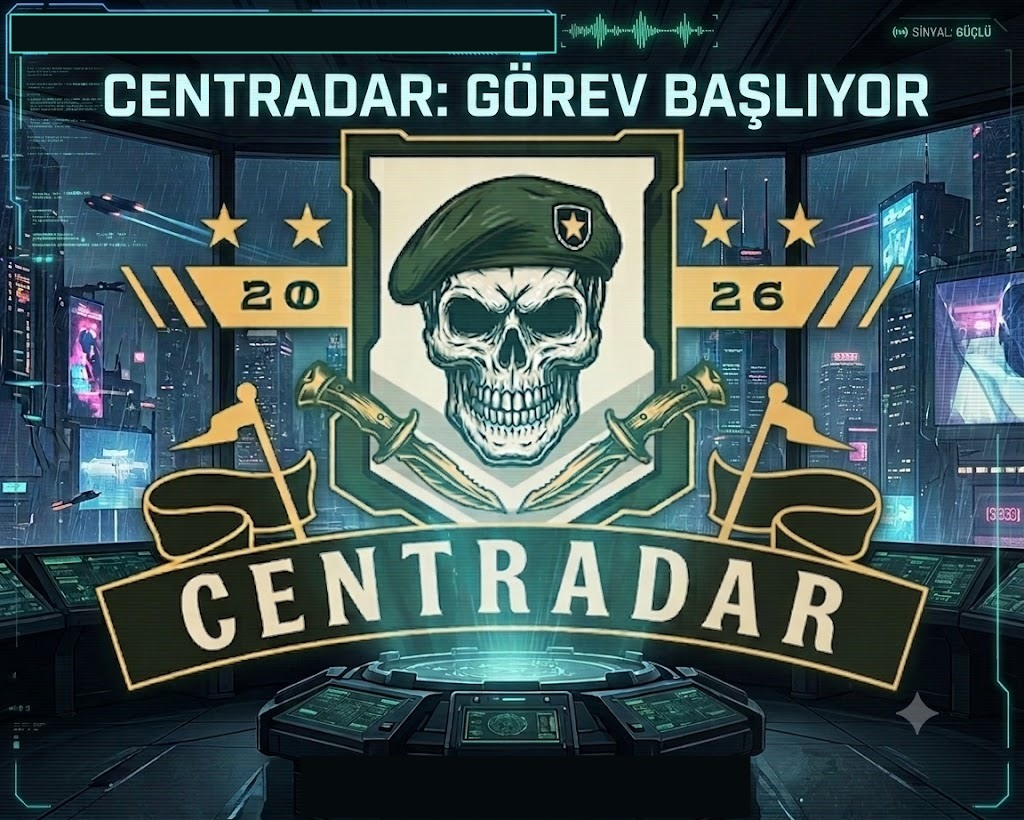
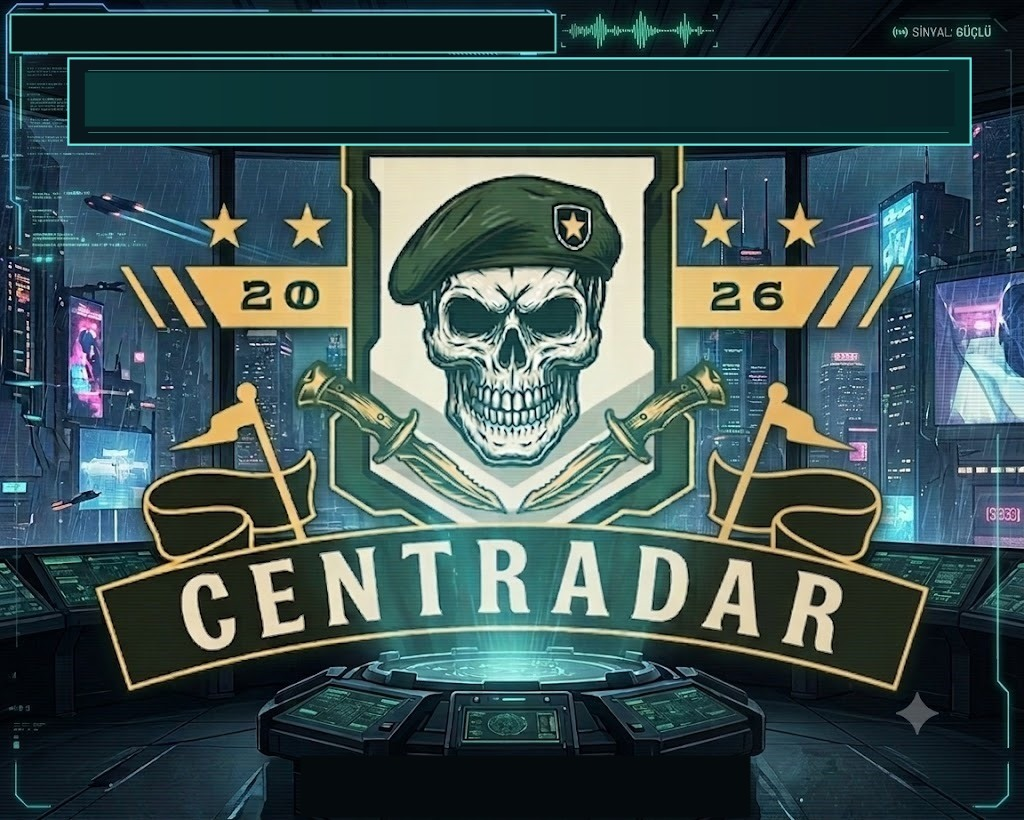
Translate mission start title

Changed region(s): [[0.0625, 0.061, 0.9688, 0.1829]]

diff --git a/index.html b/index.html
@@ -254,6 +254,7 @@ body.perf-lite .ticker-inner{animation-duration:60s}
 .welcome-bg{position:absolute;inset:0;background:linear-gradient(90deg,rgba(2,7,9,.12),rgba(2,7,9,.04) 42%,rgba(2,7,9,.28)),url('/assets/centradar-mission-live-bg.jpg') center/cover no-repeat;filter:saturate(1.08) contrast(1.05)}
 .welcome-scan{position:absolute;inset:0;background:repeating-linear-gradient(180deg,rgba(255,255,255,.035) 0 1px,transparent 1px 4px);opacity:.30;mix-blend-mode:screen;pointer-events:none}
 .welcome-live-hud{position:absolute;z-index:2;top:17px;left:18px;min-width:min(540px,70vw);font-family:var(--mono);font-size:13px;color:#bffdf7;letter-spacing:.7px;text-align:left;padding:8px 14px;text-shadow:0 0 12px rgba(0,245,255,.42)}
+.welcome-mission-title{position:absolute;z-index:2;top:74px;left:50%;transform:translateX(-50%);width:min(880px,86vw);font-family:var(--hud);font-size:clamp(30px,4.8vw,58px);line-height:1;letter-spacing:2.5px;color:#d6fffb;text-align:center;text-shadow:0 0 26px rgba(0,245,255,.50),0 3px 0 rgba(0,0,0,.72);text-transform:uppercase;pointer-events:none}
 .welcome-shell{position:relative;z-index:1;width:min(1120px,96vw);display:grid;grid-template-columns:360px;justify-content:end;align-items:center;padding-right:min(5vw,56px)}
 .welcome-brief{min-height:520px;border:1px solid rgba(115,255,235,.30);background:linear-gradient(180deg,rgba(6,18,22,.50),rgba(5,9,12,.64));box-shadow:0 18px 60px rgba(0,0,0,.58),inset 0 0 60px rgba(0,245,255,.05);padding:18px;display:flex;flex-direction:column;justify-content:space-between;overflow:hidden;position:relative}
 .welcome-brief:before{content:'';position:absolute;inset:10px;border:1px solid rgba(115,255,235,.18);pointer-events:none}
@@ -264,6 +265,9 @@ body.perf-lite .ticker-inner{animation-duration:60s}
 .welcome-portal{border:1px solid rgba(115,255,235,.38);background:linear-gradient(180deg,rgba(15,34,34,.88),rgba(6,11,12,.96));box-shadow:0 16px 54px rgba(0,0,0,.65),inset 0 0 40px rgba(0,245,255,.06);padding:18px;position:relative}
 .welcome-portal:before{content:'';position:absolute;inset:7px;border:1px solid rgba(115,255,235,.17);pointer-events:none}
 .welcome-portal-title{font-family:var(--hud);font-size:17px;line-height:1.2;letter-spacing:1px;color:#e7fffa;text-align:center;margin-bottom:14px}
+.welcome-lang-switch{display:flex;justify-content:center;gap:6px;margin:-4px 0 12px;position:relative;z-index:1}
+.welcome-lang-switch button{background:rgba(115,255,235,.08);border:1px solid rgba(115,255,235,.30);color:#bffdf7;font-family:var(--hud);font-size:9px;letter-spacing:1px;padding:6px 8px;cursor:pointer}
+.welcome-lang-switch button:hover{background:rgba(115,255,235,.16);border-color:rgba(115,255,235,.55);color:#fff}
 .welcome-stats{display:grid;grid-template-columns:1fr 1fr;gap:8px;margin:12px 0 14px}
 .welcome-stat{border:1px solid rgba(255,255,255,.08);background:rgba(0,0,0,.24);padding:9px;text-align:left}
 .welcome-stat b{display:block;font-family:var(--hud);font-size:10px;color:var(--gold);letter-spacing:1px}.welcome-stat span{font-size:10px;color:var(--dim)}
@@ -404,6 +408,7 @@ body.perf-lite .ticker-inner{animation-duration:60s}
   /* Hoş geldin overlay daha kompakt */
   #welcomeOverlay{align-items:flex-end !important;padding:12px !important}
   .welcome-live-hud{top:14px;left:12px;right:12px;min-width:0;font-size:10px;padding:7px 10px}
+  .welcome-mission-title{top:66px;width:92vw;font-size:clamp(24px,7.2vw,42px);letter-spacing:1.5px}
   .welcome-shell{grid-template-columns:1fr;width:min(420px,96vw);max-height:72vh;overflow:auto;padding:0 !important;justify-content:center;align-items:end}
   .welcome-portal{padding:14px}
 
@@ -538,9 +543,15 @@ body[data-page="harita"] #panel-harita{width:100%;height:100%}
   <div class="welcome-bg"></div>
   <div class="welcome-scan"></div>
   <div class="welcome-live-hud" id="welcomeTopline">TARİH: — | ZAMAN: — | SİSTEM DURUMU: NOMİNAL</div>
+  <div class="welcome-mission-title" id="welcomeMissionTitle" data-i18n="welcome.missionTitle">CENTRADAR: GÖREV BAŞLIYOR</div>
   <div class="welcome-shell">
     <aside class="welcome-portal">
       <div class="welcome-portal-title">PERSONEL<br>ERİŞİM PORTALI</div>
+      <div class="welcome-lang-switch" aria-label="Dil seçimi">
+        <button type="button" onclick="setLang('tr')">TR</button>
+        <button type="button" onclick="setLang('en')">EN</button>
+        <button type="button" onclick="setLang('ru')">RU</button>
+      </div>
       <div id="giftBadge" style="display:none;background:linear-gradient(180deg,rgba(245,200,66,0.15),rgba(245,200,66,0.05));border:1px solid rgba(245,200,66,0.4);border-radius:6px;padding:8px 12px;margin-bottom:12px;font-family:var(--hud);font-size:10px;color:var(--gold);letter-spacing:1px;text-align:center">
         🎁 <span id="giftBadgeText">İlk 100 oyuncuya +100 bonus mermi!</span>
       </div>
@@ -7395,6 +7406,7 @@ const I18N = {
     'pack.legendary': 'EFSANEVİ',
     'pack.bullets': 'mermi',
     // Welcome overlay
+    'welcome.missionTitle': 'CENTRADAR: GÖREV BAŞLIYOR',
     'welcome.subtitle': 'KÜRESEL SAVAŞ MMO · ABSTRACT MAINNET',
     'welcome.body': '119 ülkeden birini seç, ittifak kur, savaş alanına gir. Web3 cüzdanınla bağlan, mermi al, hedeflerinin elenmesi için saldır.',
     'welcome.stepConnect': '1 · BAĞLAN',
@@ -7732,6 +7744,7 @@ const I18N = {
     'pack.premium': 'PREMIUM',
     'pack.legendary': 'LEGENDARY',
     'pack.bullets': 'ammo',
+    'welcome.missionTitle': 'CENTRADAR: MISSION START',
     'welcome.subtitle': 'GLOBAL WAR MMO · ABSTRACT MAINNET',
     'welcome.body': 'Pick one of 119 countries, form alliances, enter the battlefield. Connect your Web3 wallet, buy ammo, attack to crush your targets.',
     'welcome.stepConnect': '1 · CONNECT',
@@ -8064,6 +8077,7 @@ const I18N = {
     'pack.premium': 'ПРЕМ.',
     'pack.legendary': 'ЛЕГЕНД.',
     'pack.bullets': 'патронов',
+    'welcome.missionTitle': 'CENTRADAR: СТАРТ МИССИИ',
     'welcome.subtitle': 'ГЛОБАЛЬНАЯ ВОЕННАЯ MMO · ABSTRACT TESTNET',
     'welcome.body': 'Выберите одну из 119 стран, создайте альянс, выходите в бой. Подключите Web3-кошелёк, купите патроны, атакуйте цели.',
     'welcome.stepConnect': '1 · ПОДКЛЮЧИТЬ',

diff --git a/public/sw.js b/public/sw.js
@@ -1,4 +1,4 @@
-const CACHE_NAME = 'centradar-static-v3';
+const CACHE_NAME = 'centradar-static-v4';
 const STATIC_ASSETS = [
   '/',
   '/og.png',
